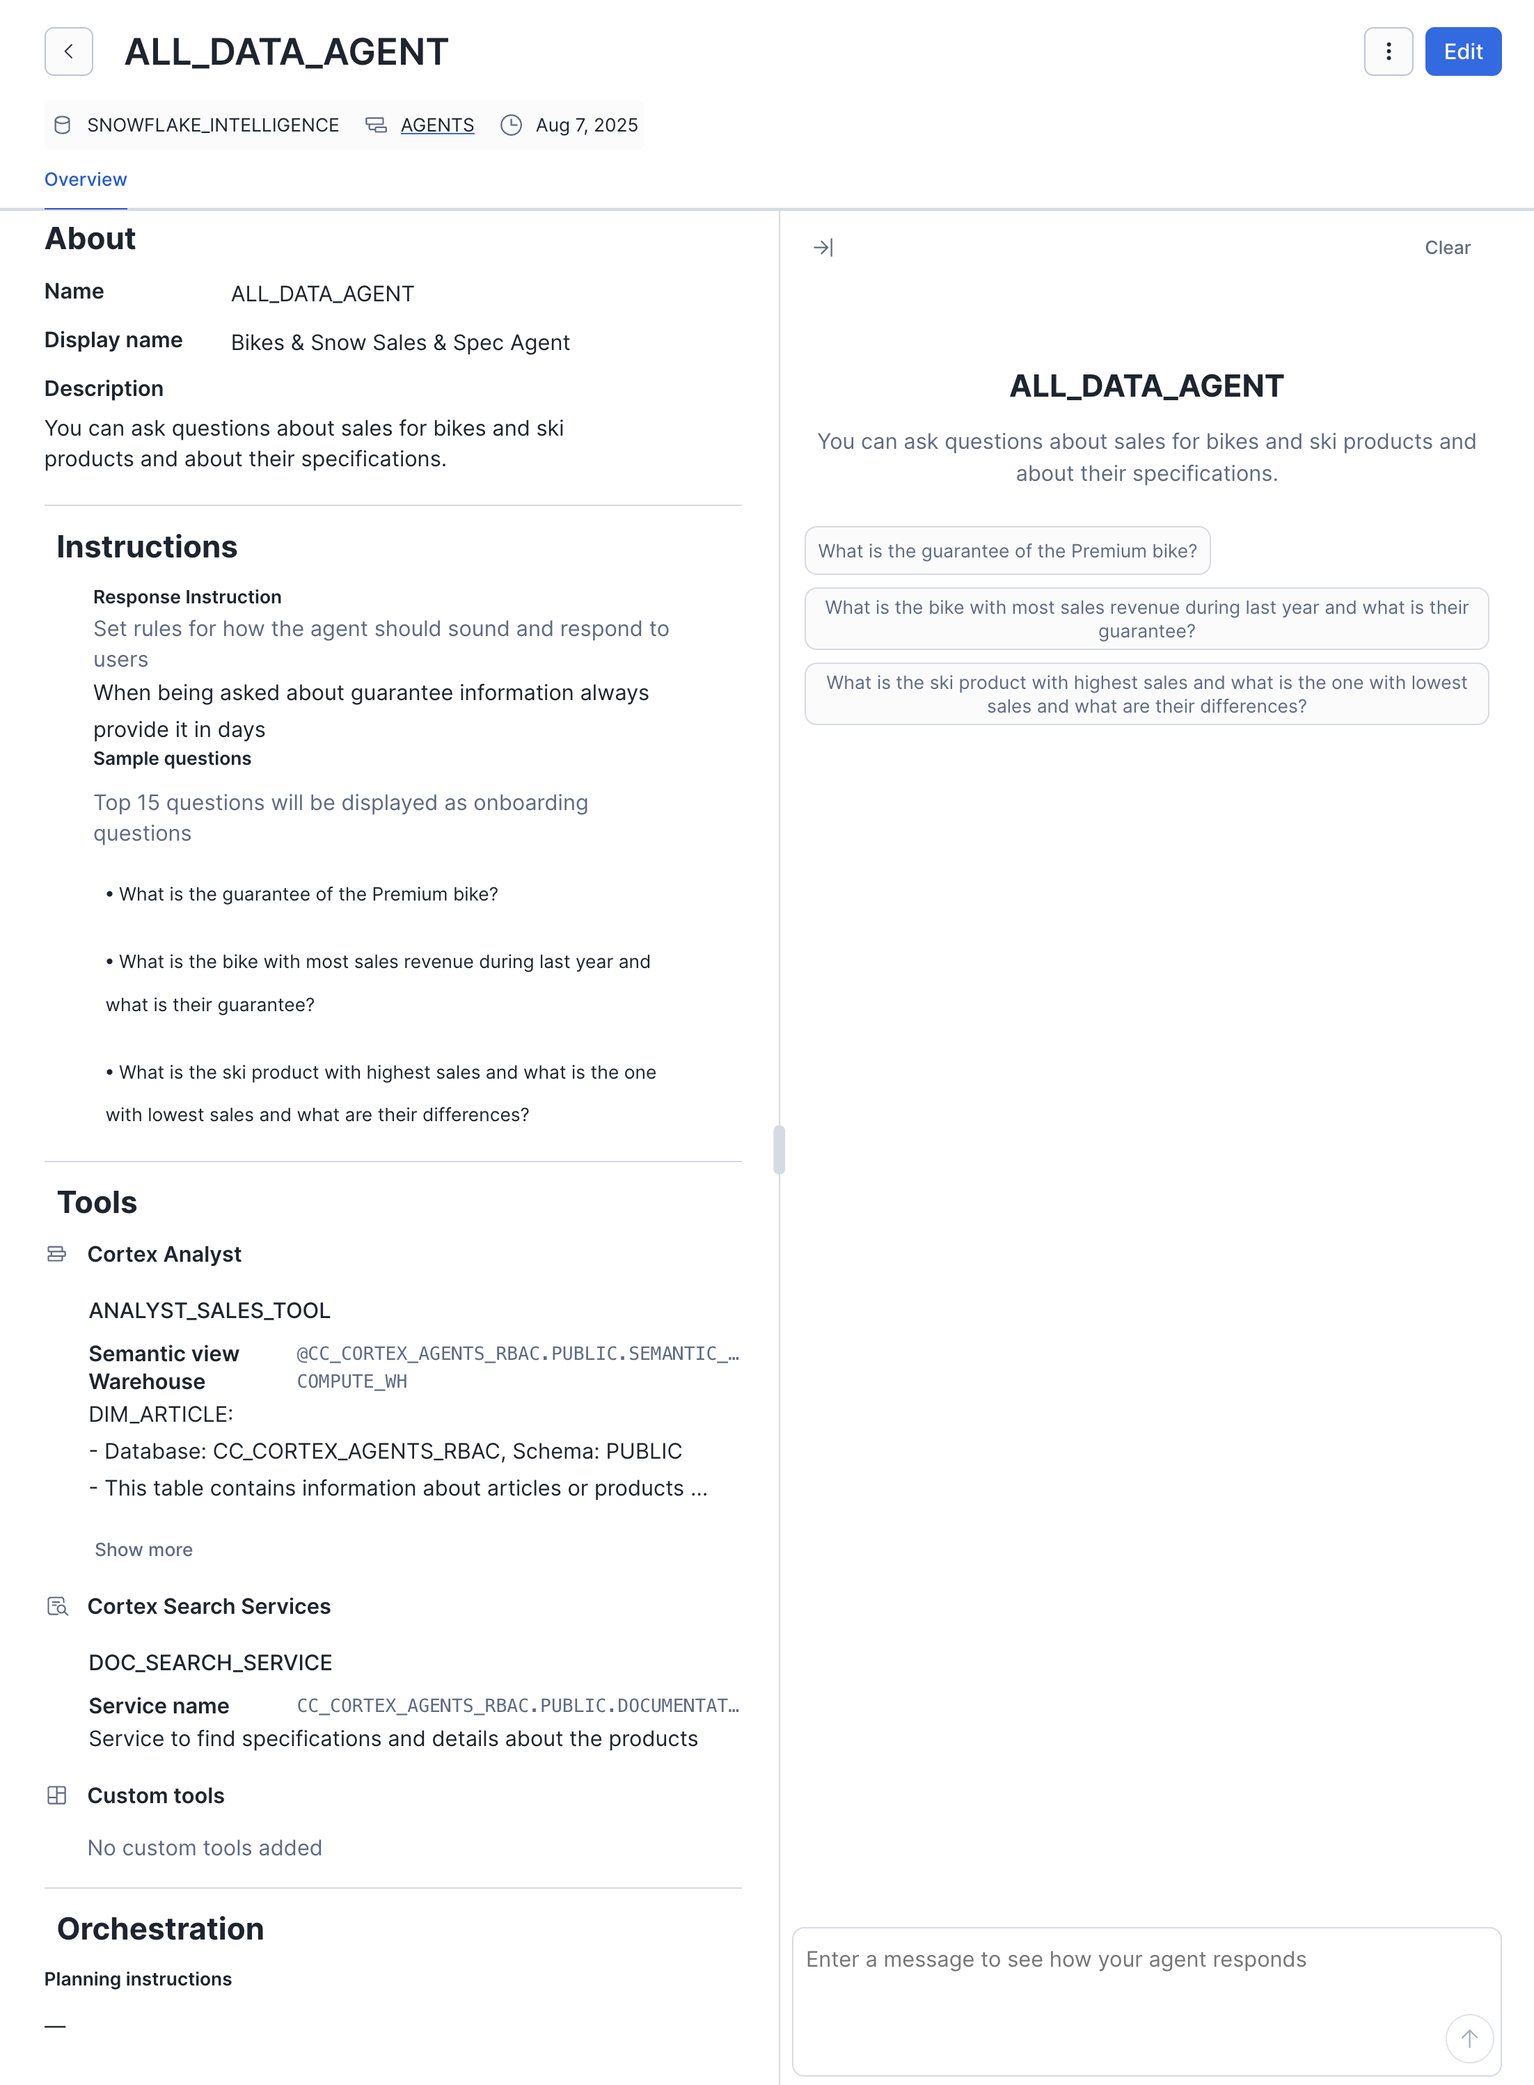
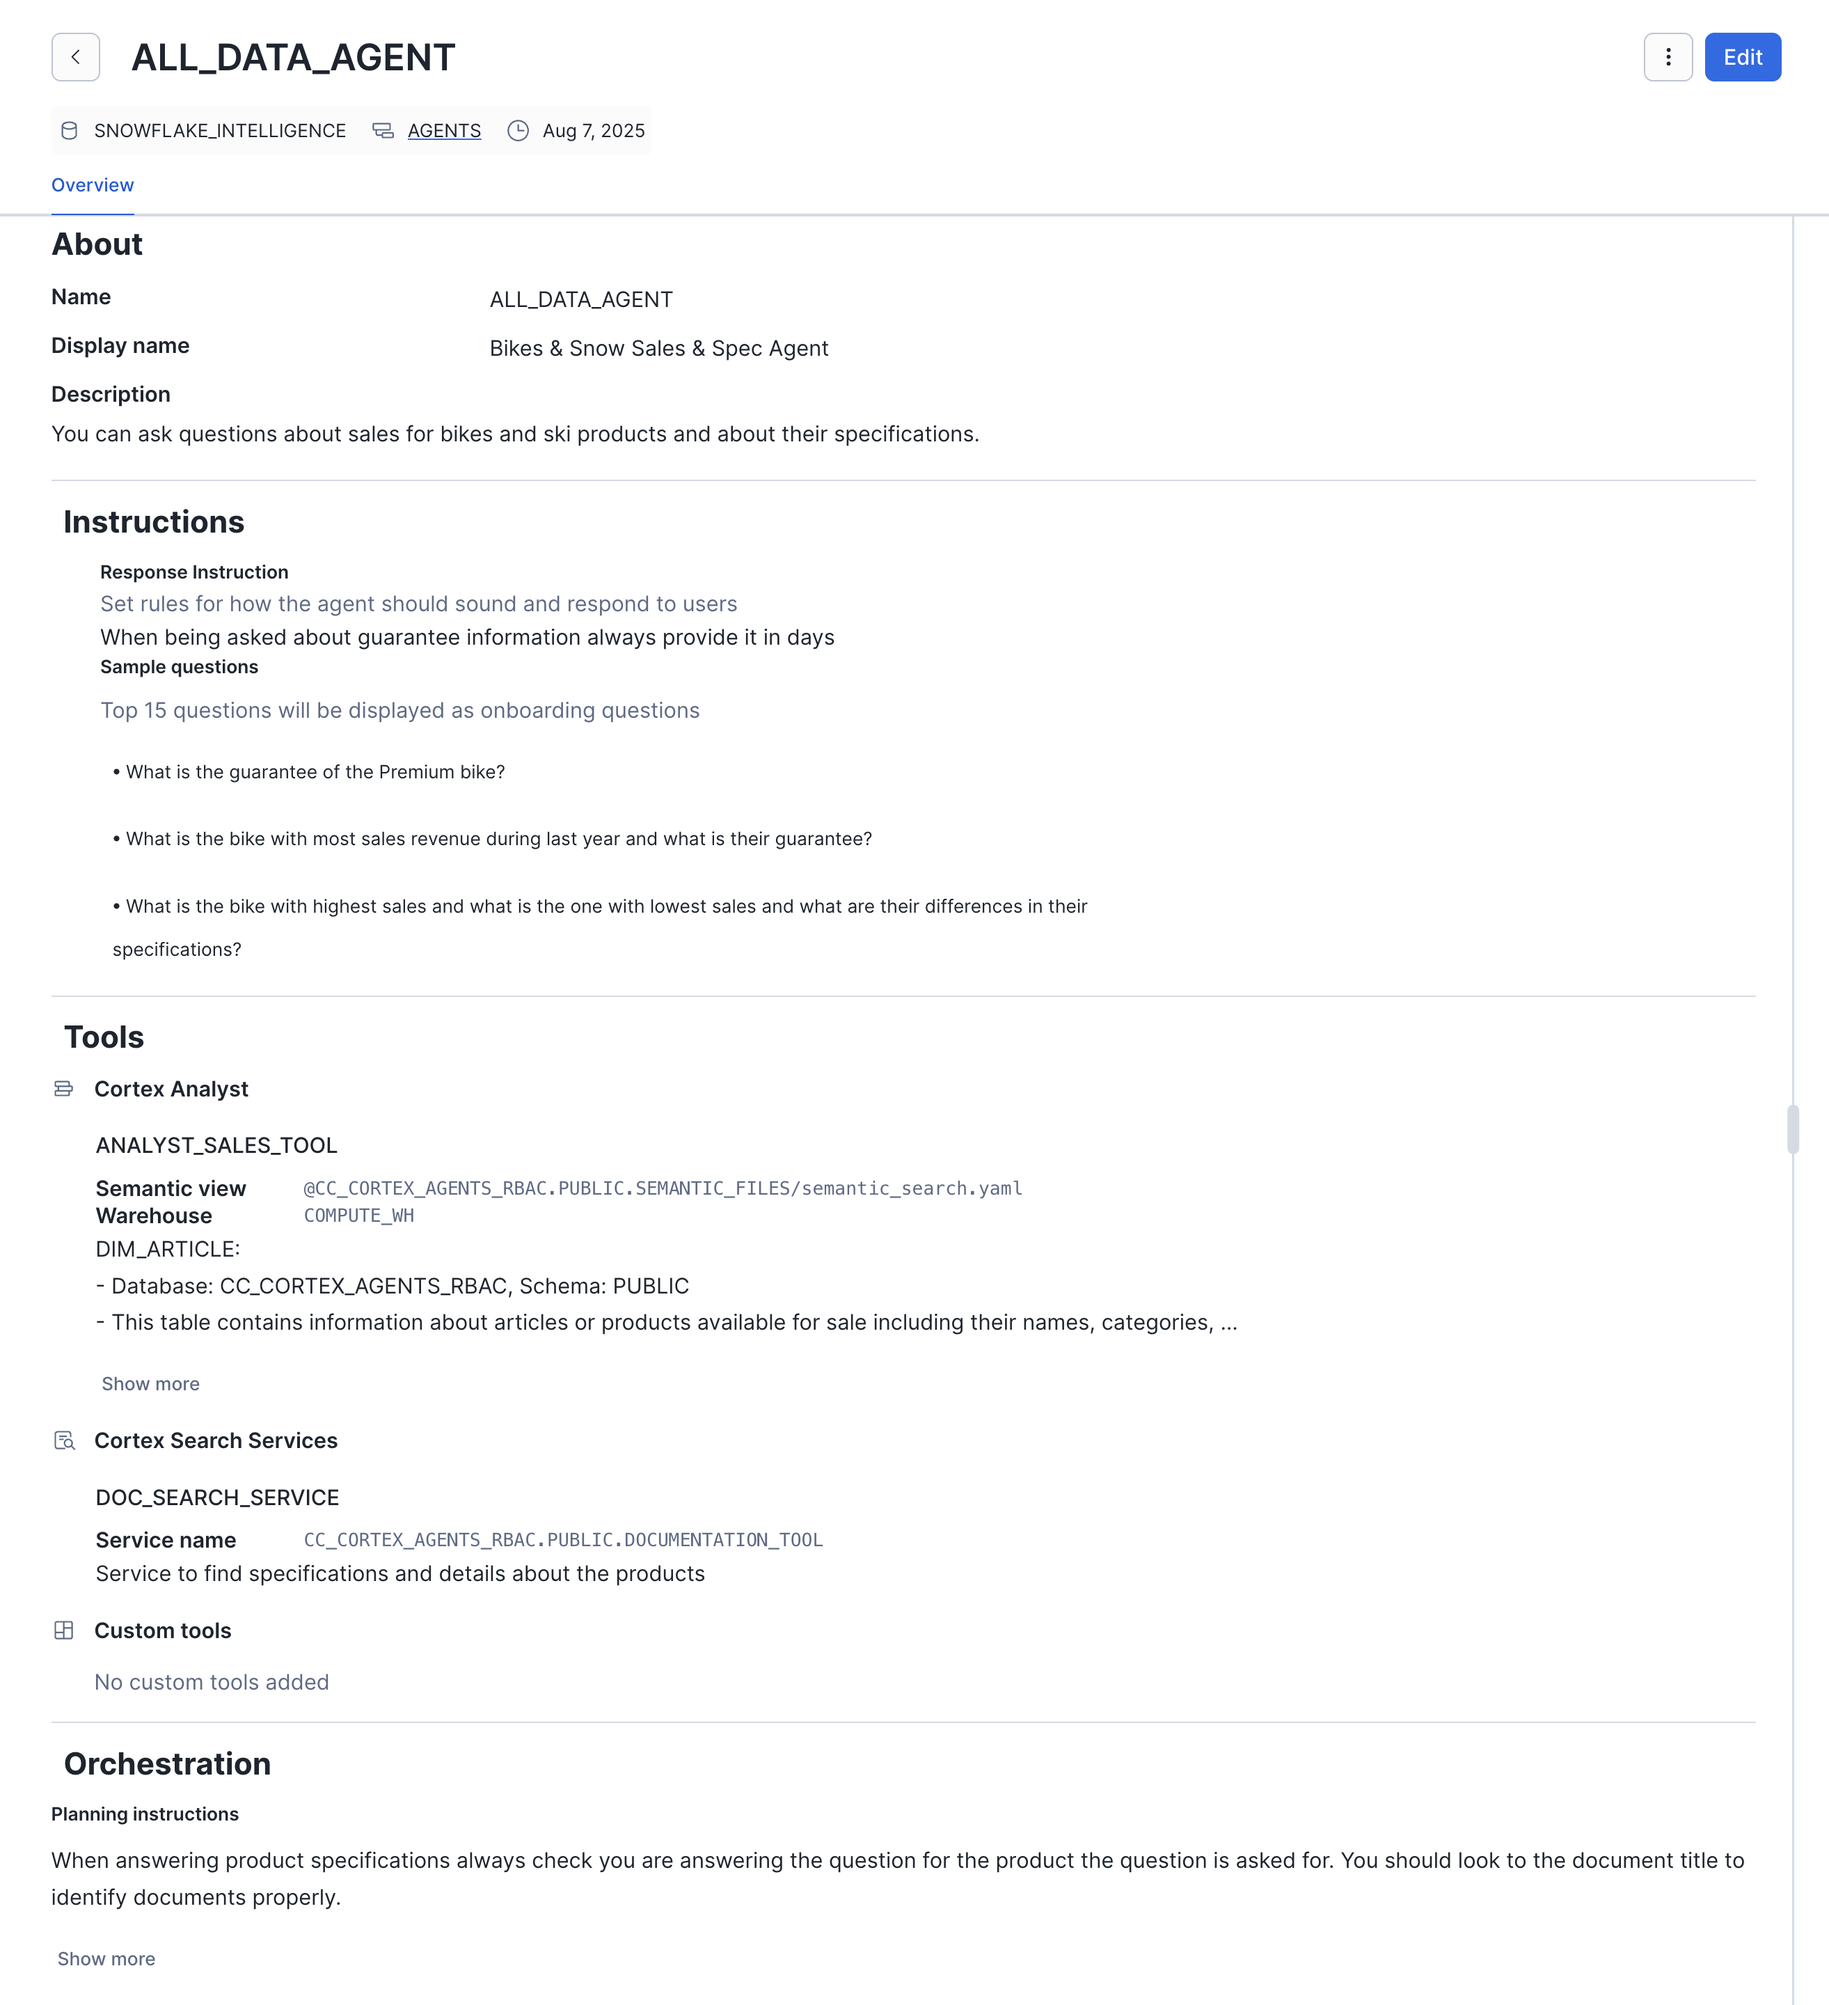
added latest steps

diff --git a/README.md b/README.md
@@ -751,8 +751,10 @@ You can also provide some sample questions to help your users to use the Agent.
 Some examples:
 
 "What is the guarantee of the Premium bike?"
+
 "What is the bike with most sales revenue during last year and what is their guarantee?"
-"What is the ski product with highest sales and what is the one with lowest sales and what are their differences?"
+
+"What is the bike with highest sales and what is the one with lowest sales and what are their differences in their specifications?"
 
 - Tools: 
 
@@ -768,7 +770,9 @@ Cortex Search Service: Add a name, description and select the DOCUMENTATION_TOOL
 
 - Orchestation: 
 
-Here you can provide detailed instructions to the Agent about how to work. This is the place to teach your agent how to work and think. 
+Here you can provide detailed instructions to the Agent about how to work. This is the place to teach your agent how to work and think. As we have documents where information may be disperse, we are going to instruct the agent to verify the document title with something like this:
+
+"When answering product specifications always check you are answering the question for the product the question is asked for. You should look to the document title to identify documents properly."
 
 - Access:
 
@@ -781,6 +785,61 @@ Finally click on Save.
 Once you have configured your agent, you can test how it works before providing it to your users
 
 ![image](img/15_agent_configured.png)
+
+# Step 6: Test Snowflake Intelligence Access
+
+You can use the ALL_USER that was created before to test that all works well. To access Snowflake Intelligence go to ai.snowflake.com, enter the URL of your account and the user and password. You should be able to see the Agent that has been asigned to the role used by that user:
+
+![image](img/16_all_user.png)
+
+We can see how the agent is able to respond to the third question by first using Cortex Analyst tool to identify sales for each bike and them look into Cortex Search to find product specifications. The Agent is able to use all that context and provide an answer:
+
+![image](img/17_all_user_question.png)
+
+# Step 7: Create one Agent for SNOW_ROLE
+
+Last step is to show how we can crate one Agent that respect RBAC that has been setup. We are going to set it up using Cortex Analyst, where RBAC will be applied and the Cortex Search service for the Snow documentation.
+
+You can follow the same steps we did before. For the Cortex Search tool, we are going to use the specific Cortex Search Service we created with a filter for just Snow products. But we could also have used only one service and filter it here when adding the tool to the agent:
+
+![image](img/18_cortex_search_snow.png)
+
+Grant the usage of this Agent to the SNOW_ROLE:
+
+![image](img/19_access_role.png)
+
+We have now defined one Agent that will be able to answer questions about sales and produc specifications for our Snow products:
+
+![image](img/20_snow_agent.png)
+
+
+# Step 8: Test Role Base Access Control with Agents
+
+Now go to ai.snowflake.com and login with your SNOW_USER. Test what questiosn can be asked. We can check that this user, has access to the specific Agent we have just created:
+
+![image](img/21_snow_user_hello.png)
+
+Ask questions to see that only Snow products are returned. If we ask:
+
+"What is the month by month revenue growth for each of the products that we sell?"
+
+You can review the planning steps and results if you click on "Show Details".
+
+In the ouput generated you will only see Snow products.
+
+![image](img/22_q1.png)
+
+Now that we have the results, we can ask a follow up question where in this case product specifications will be needed:
+
+"What are the product specifications difference for the product with highest growth and the product with lowest growth during December last year?"
+
+We can try to ask a question about Bikes, but as this agent does not have access to that information it will not be able to provide an answer. In this example, it provides the information has been able to find about Snow products:
+
+![image](img/23_q2.png)
+
+Now you can follow the same steps to create one Agent for Bike products only and assign it to the BIKE_ROLE, so users with that role will be able to use it with ai.snowflake.com
+
+Enjoy!.-
 
 
 
